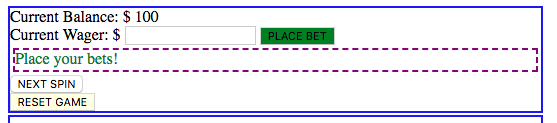
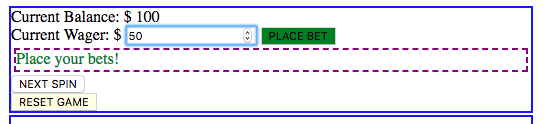
fixes image

Changed region(s): [[0.0, 0.0488, 0.9963, 1.0]]

diff --git a/README.md b/README.md
@@ -24,7 +24,7 @@ The game page features a minimalistic design with a message bar that walks the u
 
 
 1. Type in the amount you would like to wager in the box.
-![Type in your wager](https://i.imgur.com/6mlSYtW.png)
+![Type in your wager](https://i.imgur.com/I2RufCb.png)
 
 2. When you click the PLACE BET button a message appears prompting you to make your table selection.
 ![Click Place Bet](https://i.imgur.com/rxBzT47.png)
